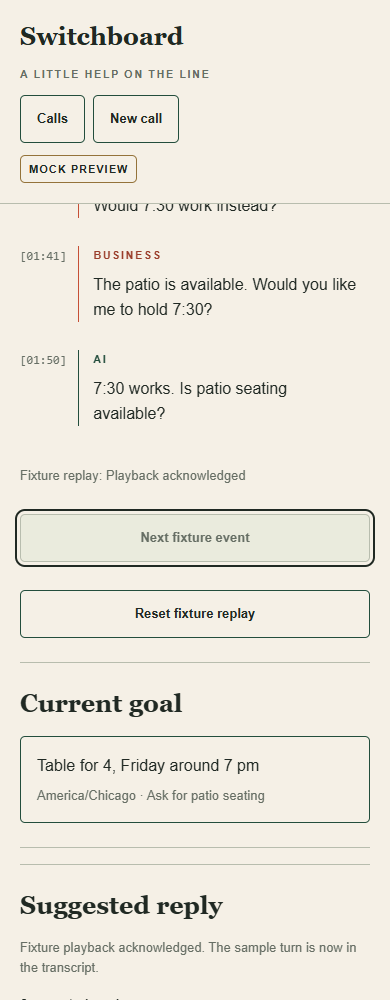
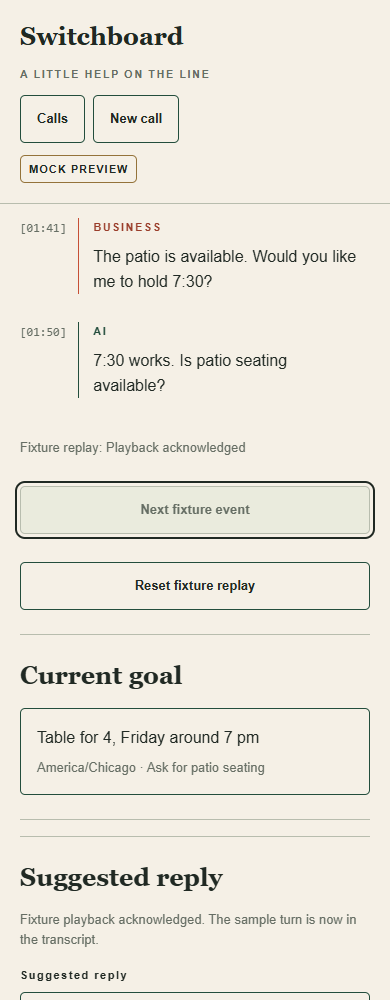
fix(transcript): preserve following through content growth

diff --git a/apps/mobile/src/screens/live-call/transcript.tsx b/apps/mobile/src/screens/live-call/transcript.tsx
@@ -42,6 +42,7 @@ export function Transcript({ state }: { state: EventState }) {
   const { finalized, provisional } = selectTranscript(state);
   const scroll = useRef<ScrollView>(null);
   const following = useRef(true);
+  const lastOffset = useRef(0);
   const [away, setAway] = useState(false);
   const [unread, setUnread] = useState(false);
   return (
@@ -63,8 +64,13 @@ export function Transcript({ state }: { state: EventState }) {
           const nearEnd =
             contentSize.height - layoutMeasurement.height - contentOffset.y <
             48;
-          following.current = nearEnd;
-          setAway(!nearEnd);
+          // A content resize also emits scroll events. Only movement upward
+          // retires following; growth below the reader must not impersonate it.
+          if (nearEnd) following.current = true;
+          else if (contentOffset.y < lastOffset.current - 1)
+            following.current = false;
+          lastOffset.current = contentOffset.y;
+          setAway(!following.current);
           if (nearEnd) setUnread(false);
         }}
         onContentSizeChange={() => {
